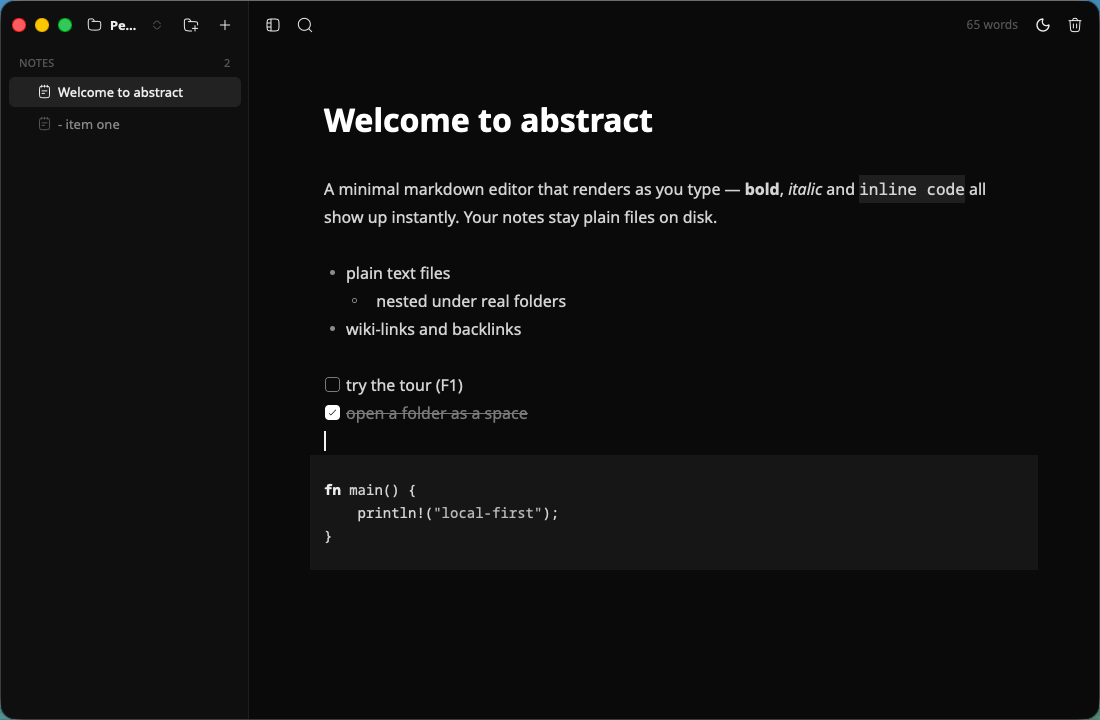
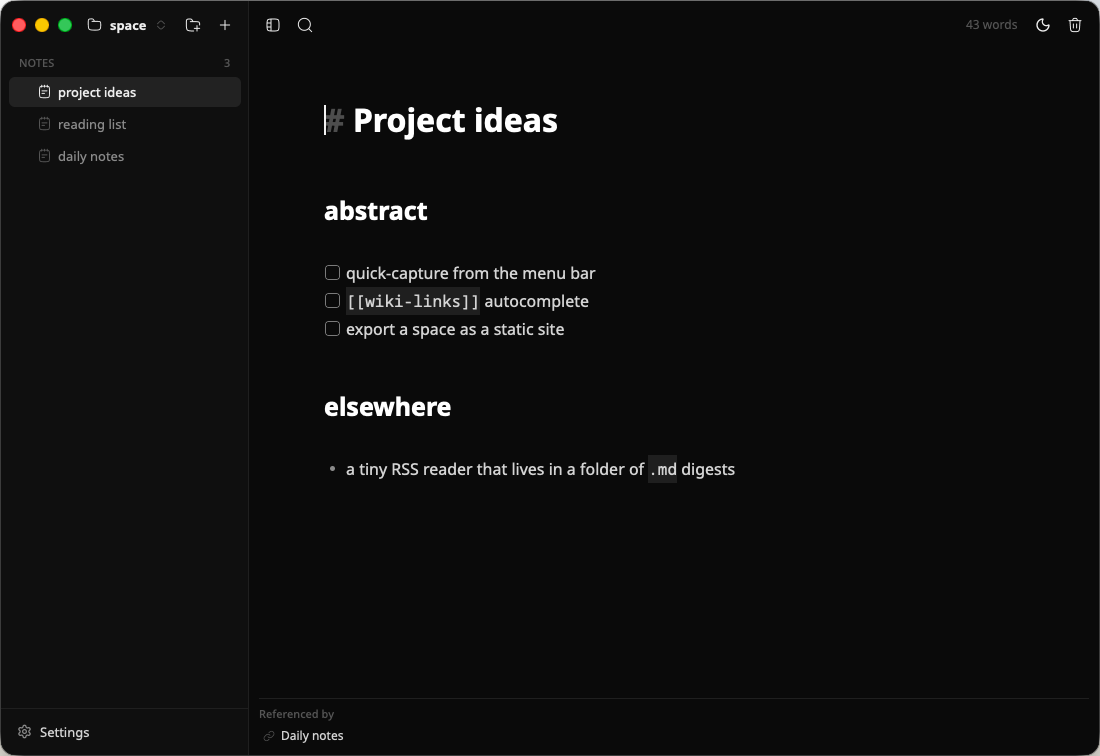
Leaner hero: real app screenshots, mono headline 'Your notes are just files.'

diff --git a/index.html b/index.html
@@ -6,7 +6,7 @@
     <title>abstract — a markdown notes editor that gets out of the way</title>
     <meta name="description" content="abstract is a minimal, local-first markdown notes editor, GPU-rendered with GPUI. Plain .md files in real folders. No accounts, no sync daemon, no proprietary format." />
     <meta property="og:title" content="abstract" />
-    <meta property="og:description" content="Write. That's it. A local-first markdown notes editor, GPU-rendered." />
+    <meta property="og:description" content="Your notes are just files. A local-first markdown notes editor, GPU-rendered." />
     <meta property="og:type" content="website" />
     <meta property="og:url" content="/" />
     <meta property="og:image" content="/media/hero-light.png" />
@@ -19,7 +19,7 @@
     <main class="hero wrap">
       <div class="hero-grid">
         <div class="hero-copy">
-          <h1 class="headline" data-split>Write. <em>That's it.</em></h1>
+          <h1 class="headline" data-split>Your notes are <em>just files.</em></h1>
           <p class="lede">
             A minimal notes editor that treats your notes as what they are: plain <code>.md</code> files in real
             folders, on your disk. No accounts, no sync daemon, no proprietary format. The folder is the app.

diff --git a/src/style.css b/src/style.css
@@ -172,7 +172,7 @@ button.link { appearance: none; border: 0; background: none; padding: 0; font: i
 body.home { display: flex; flex-direction: column; min-height: 100vh; min-height: 100svh; }
 main.hero { flex: 1; display: flex; align-items: center; width: 100%; padding-top: 88px; padding-bottom: 32px; }
 .hero-grid { display: grid; grid-template-columns: minmax(0, 0.92fr) minmax(0, 1.08fr); gap: clamp(32px, 4.5vw, 72px); align-items: center; width: 100%; }
-.hero .headline { font-size: clamp(44px, 5.8vw, 80px); margin: 0 0 20px; }
+.hero .headline { font-family: var(--mono); font-weight: 600; font-size: clamp(34px, 4.6vw, 62px); letter-spacing: -0.02em; margin: 0 0 20px; }
 .hero .lede { margin: 0 0 30px; }
 /* feature rotation */
 .clip { margin: 0; border: none; outline: 1px solid var(--outline); outline-offset: -1px; border-radius: 14px; overflow: hidden; background: var(--panel); }
